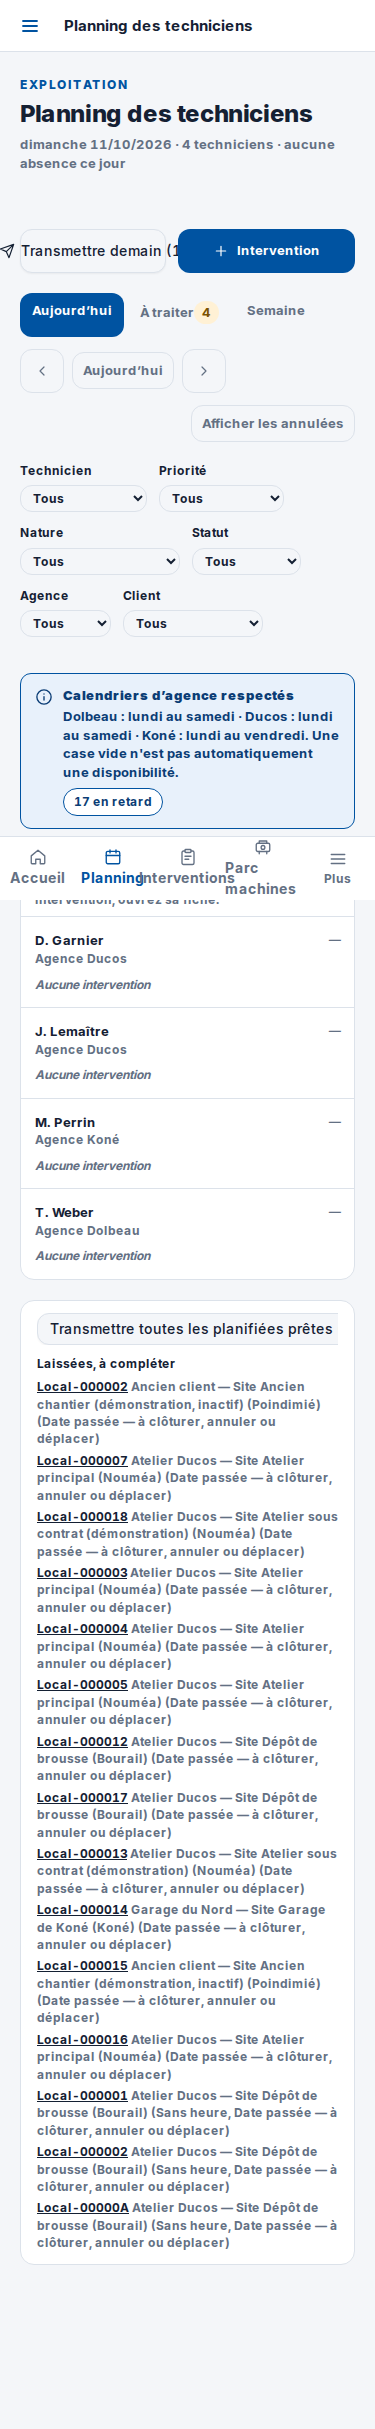
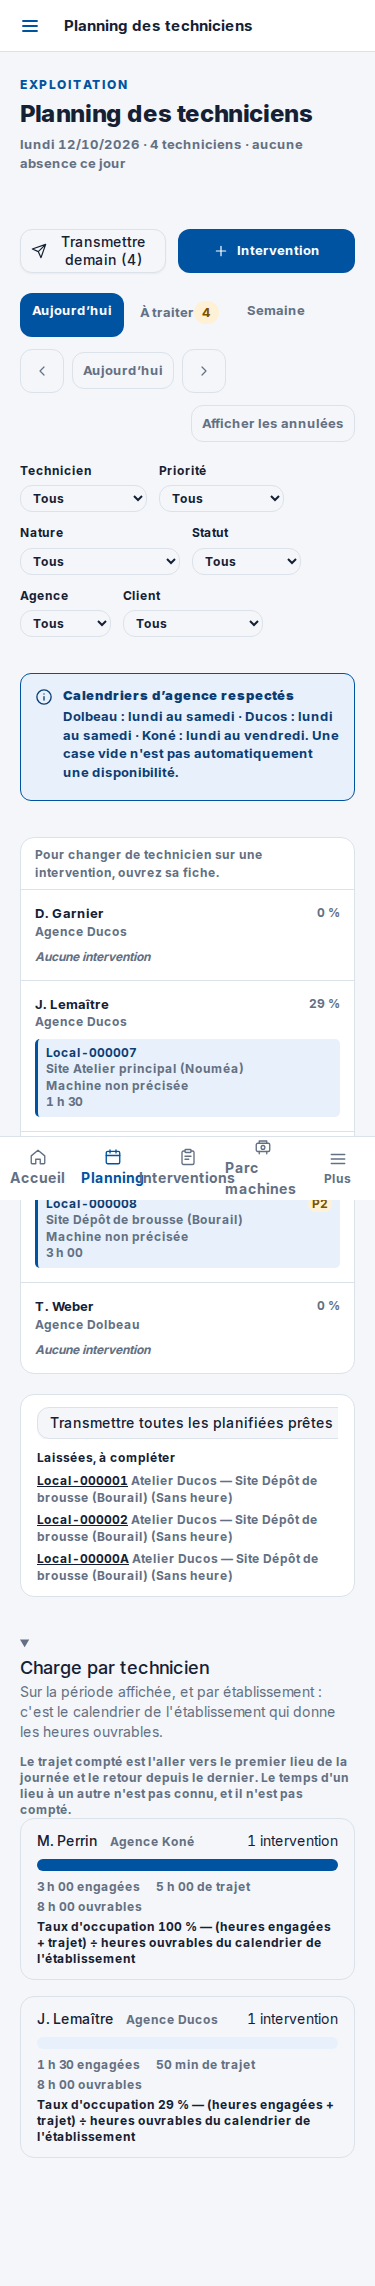
9EH-TP-UX-PL-PLANNING-2 — 0 : bouton « Transmettre demain (n) » rogné à 375 px, corrigé
Laissé par 9EH-TP-UX-PL-PLANNING-1 : au téléphone, le libellé à décompte
("Transmettre demain (n)") et l'icône débordaient du bouton de l'en-tête
(base whitespace-nowrap de components/ui/button.tsx). Le groupe
max-[900px]: de transmettre-demain.tsx laisse désormais le texte revenir à
la ligne et se centrer sous 901 px, sans toucher au rendu bureau.

Épreuve neuve dans tests/e2e/planning-telephone-en-tete.spec.ts, même scène
PGTEL- : scrollWidth <= clientWidth du bouton, icône contenue dans sa
boîte, bord droit du bouton <= bord gauche du lien « Intervention ».
Confirmée ROUGE sur l'ancien code, VERTE après la correction.

Captures APRÈS à 375 px (Semaine, Jour) régénérées dans le dossier de
9EH-TP-UX-PL-PLANNING-1, le défaut corrigé étant le sien.

Changed region(s): [[0.0293, 0.1864, 0.9387, 0.9318], [0.0293, 0.0, 0.968, 0.2485], [0.88, 0.4348, 0.9093, 0.4659]]

diff --git a/components/planning/transmettre-demain.tsx b/components/planning/transmettre-demain.tsx
@@ -114,6 +114,12 @@ export function DialogueTransmettreDemain({
           // réglage, posé ici une seule fois, ne s'applique donc jamais aux
           // deux à la fois.
           "max-[900px]:min-h-11",
+          // LE BOUTON ROGNÉ AU TÉLÉPHONE (9EH-TP-UX-PL-PLANNING-2, PARTIE 0) —
+          // le libellé porte un décompte (« Transmettre demain (n) ») et la
+          // base `whitespace-nowrap` (`components/ui/button.tsx`) le coupait
+          // dans sa moitié de rangée à 375 px ; passer le texte à la ligne et
+          // le recentrer évite la coupe et le recouvrement du lien voisin.
+          "max-[900px]:whitespace-normal max-[900px]:py-1 max-[900px]:leading-tight max-[900px]:text-center",
         )}
       >
         {icone === undefined ? null : <Icone nom={icone} taille={16} />}

diff --git a/docs/propositions/9EH-TP-UX-PL-PLANNING-1/captures/README.md b/docs/propositions/9EH-TP-UX-PL-PLANNING-1/captures/README.md
@@ -6,5 +6,6 @@ scène de démonstration (`pnpm db:seed`), aucune donnée de production.
 - **AVANT** : commit `08a24e54` (main, avant ce lot), capturées le 2026-10-10.
 - **APRÈS, 1280 px** : commit `14d516dd` (après la correction de `planning.titre`), capturées le 2026-10-10 — inchangées depuis (l'en-tête bureau n'a pas bougé).
 - **APRÈS, 375 px** : commit `ebf2848a` (9EHB-REPRISE-9EH-1, W11 — en-tête en colonne, deux boutons pleine largeur, décision 71), RÉGÉNÉRÉES le 2026-10-10 : les quatre `apres-*-375.png` seuls, l'écran ayant bougé à cette largeur.
+- **APRÈS, Semaine et Jour à 375 px** : RÉGÉNÉRÉES le 2026-10-11 (9EH-TP-UX-PL-PLANNING-2, PARTIE 0) — le bouton « Transmettre demain (n) » était rogné (texte coupé, icône hors du bouton) ; `components/planning/transmettre-demain.tsx` laisse désormais le texte revenir à la ligne sous 901 px.
 
 Quatre vues (Semaine, Jour, 2 semaines, Mois), à 1280 et 375 px.
